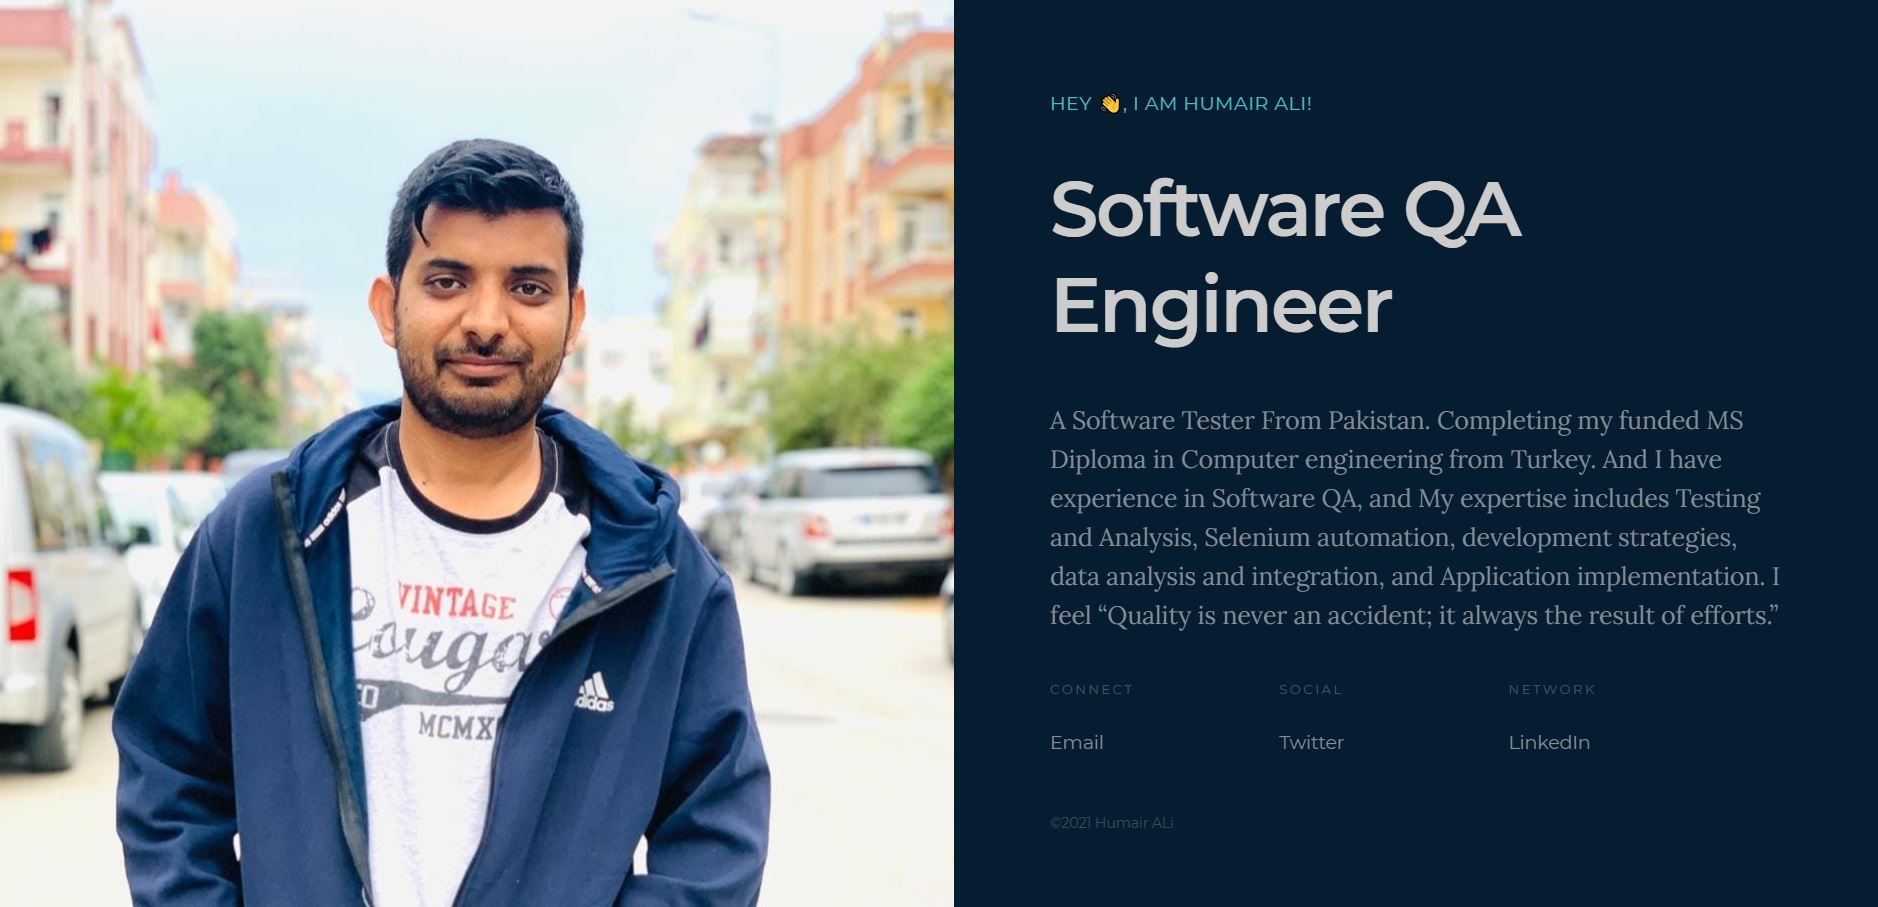
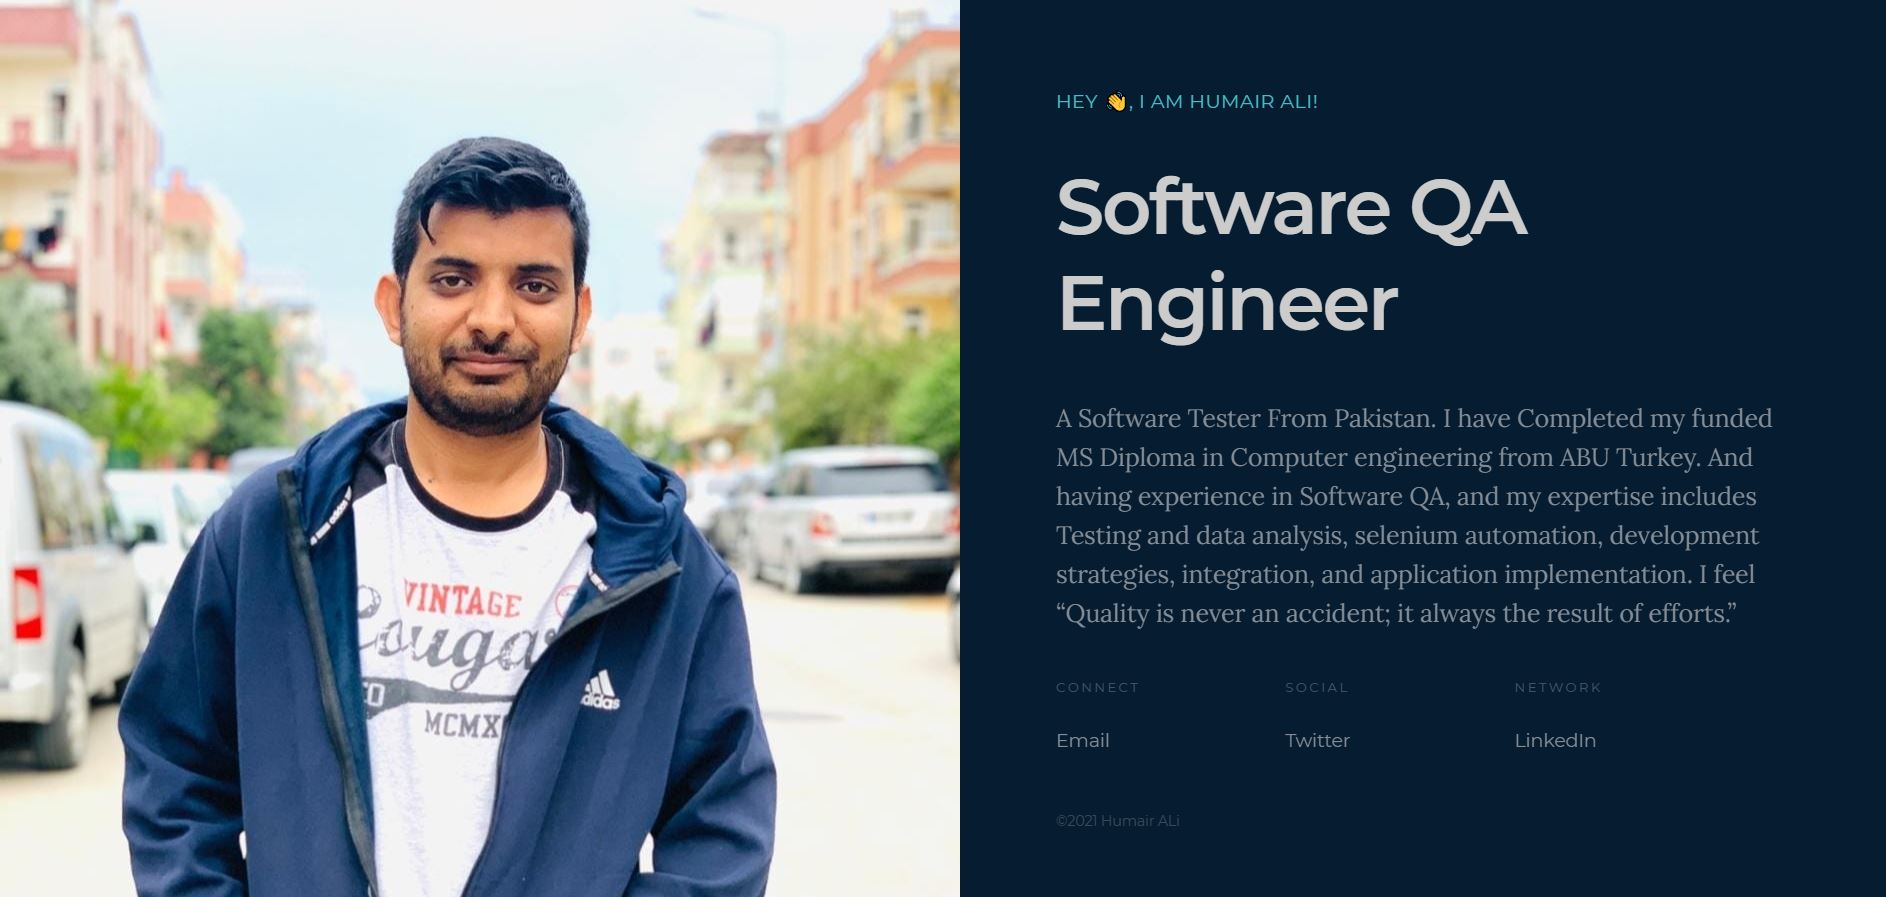
first commit

diff --git a/content/_index.md b/content/_index.md
@@ -3,4 +3,4 @@ title = "Hey 👋, I am Humair Ali!"
 tagline = "Software QA Engineer"
 +++
 
-A Software Tester From Pakistan. I have Completed my funded MS Diploma in Computer engineering from ABU Turkey. And having experience in Software QA, and my expertise includes Testing and data analysis, selenium automation, development strategies, integration, and application implementation. I feel “Quality is never an accident; it always the result of efforts.”
+A Software Tester From Pakistan. I have Completed my funded MS Diploma in Computer Engineering from ABU Turkey. My expertise includes Testing and data analysis, selenium automation, development strategies, integration, and application implementation. I feel “Quality is never an accident; it always the result of efforts.”
